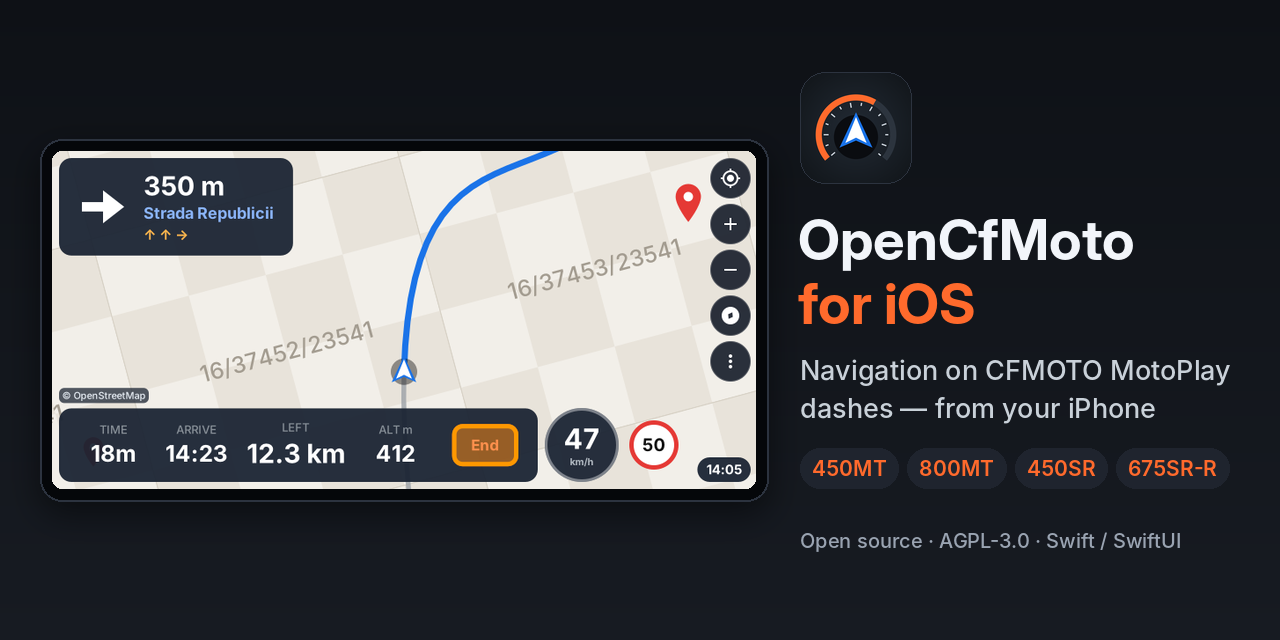
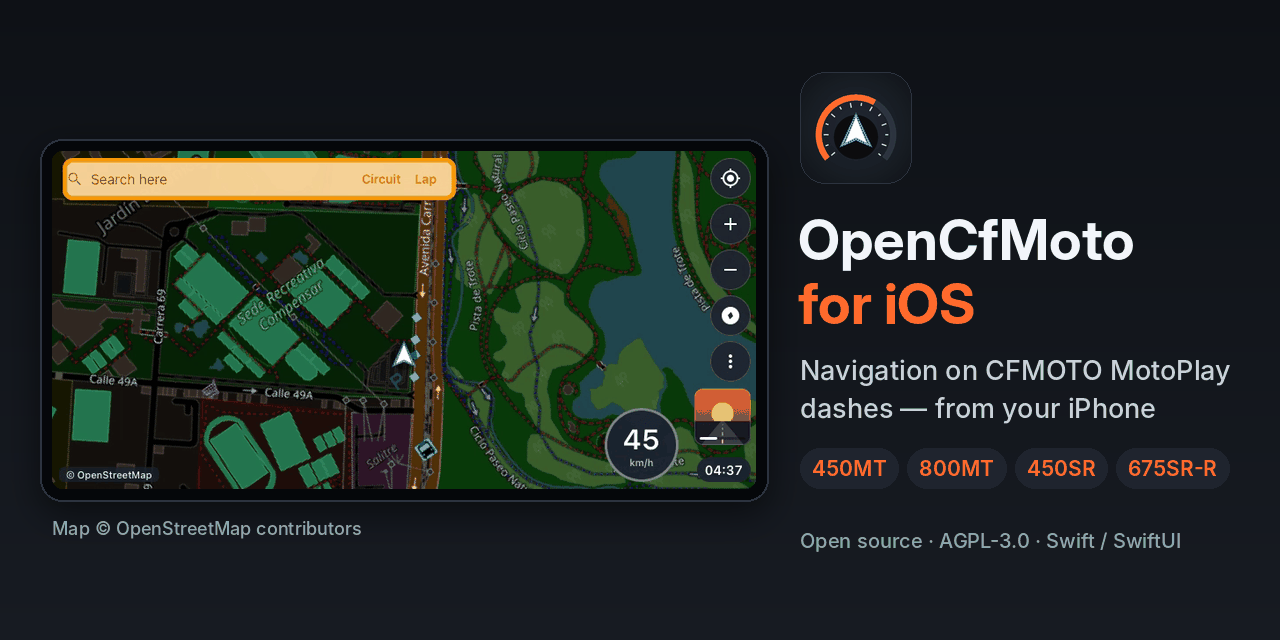
README images and social preview: the real dash map and the demo cover, credited
The README strip and the 1280x640 social preview (the LinkedIn card) showed snapshot-test renders:
placeholder tiles labelled "16/37452/23541" and "14/9362/5885", and the internal artwork id
"music.art.p1f" instead of a cover. A newcomer could not tell what the dash map looks like.

- dash-map.png (the hero and the card): what the app streamed to the simulated dash in the CI E2E
  run, music scenario: the OpenStreetMap night map along the demo route, speed, clock, the dash's own
  "© OpenStreetMap" label and the Apple Music tile with the demo song's cover.
- dash-apple-music.png: the Music sheet frame of the same run (demo song and cover).
- dash-portrait.png replaces the route preview: the last frame of the cfdl26 scenario, the same map
  on the 800x944 portrait dash, downscaled to 624x736. dash-navigation.png and dash-route-preview.png
  are gone; every image is a palette PNG under 300 KB with no metadata chunks.
- The strip's caption says where the pictures come from and "Map © OpenStreetMap contributors"
  (EN/ES); the alt texts describe what is shown.
- make_social_preview.py reads dash-map.png, draws "Map © OpenStreetMap contributors" under the dash
  (checked against the 40 px safe margin) and writes a 256-colour PNG (133 KB, was 154 KB).
- docs/media/README.md: what the card and the README images are, where they come from and the rules;
  spec navigation-dash §10.4 notes that these pictures carry the caption.
[…]

Changed region(s): [[0.0312, 0.2188, 0.5938, 0.7812], [0.0312, 0.8125, 0.2812, 0.8438], [0.6562, 0.1875, 0.6875, 0.25]]

diff --git a/docs/media/make_social_preview.py b/docs/media/make_social_preview.py
@@ -2,13 +2,16 @@
 # SPDX-License-Identifier: AGPL-3.0-or-later
 """Draw docs/media/social-preview.png (1280 x 640), the repository's social preview image.
 
-Layout (docs/media/README.md): the 800 x 384 dash snapshot (demo data, placeholder tiles) in a TFT
-bezel on the left; the app icon, the name, a one-line pitch, model chips and the licence on the
-right. Colours are the app's Theme. Everything important stays 40 px inside the edges, so LinkedIn's
-1.91:1 crop (about 1222 x 640, centred) keeps it.
+Layout (docs/media/README.md): the 800 x 384 dash frame docs/screenshots/readme/dash-map.png (what the
+app streamed to the simulated dash in the CI E2E run: OpenStreetMap tiles along the demo route, the
+demo song's cover) in a TFT bezel on the left, with the map credit "Map © OpenStreetMap contributors"
+under it; the app icon, the name, a one-line pitch, model chips and the licence on the right. Colours
+are the app's Theme. Everything important stays 40 px inside the edges, so LinkedIn's 1.91:1 crop
+(about 1222 x 640, centred) keeps it.
 
 Needs Pillow and the Inter typeface (OFL; Debian/Ubuntu package fonts-inter). Only images from this
-repository are used: no logos, no photos, no real map data.
+repository are used: no logos, no photos; the only map data is the credited OpenStreetMap map of the
+demo route.
 
 usage: python3 docs/media/make_social_preview.py [--fonts DIR] [--out PATH]
 """
@@ -19,7 +22,7 @@ import sys
 from PIL import Image, ImageDraw, ImageFilter, ImageFont
 
 ROOT = os.path.dirname(os.path.dirname(os.path.dirname(os.path.abspath(__file__))))
-DASH = os.path.join(ROOT, "docs", "screenshots", "readme", "dash-navigation.png")
+DASH = os.path.join(ROOT, "docs", "screenshots", "readme", "dash-map.png")
 ICON = os.path.join(ROOT, "App", "Resources", "Assets.xcassets", "AppIcon.appiconset", "AppIcon-1024.png")
 OUT = os.path.join(ROOT, "docs", "media", "social-preview.png")
 
@@ -31,6 +34,7 @@ BRAND, CHIP_FILL = (0xFF, 0x6A, 0x2C), (0x1F, 0x24, 0x2E)
 
 BEZEL = (40, 139, 40 + 728, 139 + 362)  # 728 x 362, vertically centred
 SCREEN = (52, 151, 52 + 704, 151 + 338)  # the dash picture, 704 x 338 (0.88 of 800 x 384)
+MAP_CREDIT = "Map © OpenStreetMap contributors"  # required on any picture with OSM tiles
 COLUMN_X, COLUMN_RIGHT = 800, W - 40
 
 
@@ -63,6 +67,14 @@ def bezel(canvas):
     sx0, sy0, sx1, sy1 = SCREEN
     dash = Image.open(DASH).convert("RGBA").resize((sx1 - sx0, sy1 - sy0), Image.LANCZOS)
     canvas.paste(dash, (sx0, sy0), rounded_mask(dash.size, 10))
+
+
+def map_credit(canvas, fonts):
+    """The OpenStreetMap credit under the bezel, inside the 40 px safe margin."""
+    credit = font(fonts, "Inter-Medium.otf", 18)
+    draw = ImageDraw.Draw(canvas)
+    draw.text((BEZEL[0] + 12, BEZEL[3] + 34), MAP_CREDIT, font=credit, fill=TEXT_DIM, anchor="ls")
+    return draw.textbbox((BEZEL[0] + 12, BEZEL[3] + 34), MAP_CREDIT, font=credit, anchor="ls")
 
 
 def right_column(canvas, fonts):
@@ -114,10 +126,16 @@ def main():
 
     canvas = gradient().convert("RGBA")
     bezel(canvas)
+    credit_box = map_credit(canvas, args.fonts)
+    if credit_box[3] > H - 40 or credit_box[2] > COLUMN_X - 16:
+        sys.exit("the map credit does not fit under the dash (40 px safe margin)")
     content_right = right_column(canvas, args.fonts)
     if content_right > COLUMN_RIGHT:
         sys.exit("the text does not fit the right column (40 px safe margin)")
-    canvas.convert("RGB").save(args.out, "PNG", optimize=True)
+    # A 256-colour palette (median cut, no dithering) keeps the card small: the map frame is a palette
+    # PNG already and the background gradient has only a few colours.
+    card = canvas.convert("RGB").quantize(colors=256, method=Image.Quantize.MEDIANCUT, dither=Image.Dither.NONE)
+    card.save(args.out, "PNG", optimize=True)
     size = os.path.getsize(args.out)
     print(f"{os.path.relpath(args.out, ROOT)}: {W} x {H}, {size // 1024} KB")
     if size >= 1024 * 1024:

diff --git a/docs/media/README.md b/docs/media/README.md
@@ -2,7 +2,7 @@
 
 ## social-preview.png
 
-`social-preview.png` (1280 × 640 PNG, about 150 KB) is the image GitHub, LinkedIn and chat apps show
+`social-preview.png` (1280 × 640 PNG, about 135 KB) is the image GitHub, LinkedIn and chat apps show
 when someone shares a link to this repository.
 
 ### Upload it (repository owner, once)
@@ -21,16 +21,19 @@ before posting.
 
 ### What is in it, and the rules for changing it
 
-- Left: the 800 × 384 dash snapshot `docs/screenshots/readme/dash-navigation.png` (a snapshot-test
-  render with placeholder map tiles and upstream's demo route) in a dash-style bezel.
+- Left: the 800 × 384 dash frame `docs/screenshots/readme/dash-map.png` in a dash-style bezel, with
+  "Map © OpenStreetMap contributors" under it. It is what the app streamed to the simulated dash in
+  the CI E2E run (the `music` scenario: OpenStreetMap tiles along the demo route, the demo song's
+  cover, no tile ids or test labels).
 - Right: the app icon, "OpenCfMoto for iOS", a one-line pitch, the model chips
   450MT · 800MT · 450SR · 675SR-R and "Open source · AGPL-3.0 · Swift / SwiftUI".
 - Colours are the app's own (`App/Sources/UI/Common/Theme.swift`); the type is Inter.
 - Everything important stays 40 px inside the edges, so LinkedIn's 1.91:1 crop keeps it.
-- Keep it that way: no CFMOTO, Carbit or Apple logos, no photos of real bikes or plates, no real
-  map positions and no screenshots of the real app (Garage, Logs, Wi-Fi screens, the dash QR). If you
-  ever switch to a picture with real OpenStreetMap tiles, add the caption
-  "© OpenStreetMap contributors" on the image.
+- Keep it that way: no CFMOTO, Carbit or Apple logos, no photos of real bikes or plates, no map
+  positions other than the demo route (public streets and parks), no snapshot-test placeholders
+  (tile ids, artwork ids) and no screenshots of the real app with personal data (Garage, Logs,
+  Wi-Fi screens, the dash QR). Every picture with OpenStreetMap tiles carries the caption
+  "© OpenStreetMap contributors" on the image (here) or right under it (the README strip).
 - GitHub needs a PNG, JPG or GIF under 1 MB; 1280 × 640 is the recommended size.
 
 ### Regenerate it
@@ -42,6 +45,15 @@ python3 docs/media/make_social_preview.py
 It needs Pillow and the Inter typeface (`fonts-inter` on Debian / Ubuntu; pass another folder with
 `--fonts`). The script reads only images from this repository and refuses to write a file over 1 MB.
 
+## The README images
+
+`docs/screenshots/readme/`: `phone-home.png` and `phone-dash-view.png` are iOS simulator screenshots in
+demo mode. `dash-map.png`, `dash-apple-music.png` and `dash-portrait.png` are frames the app streamed to
+the simulated dash in the CI E2E run (the `music` scenario's map and Music sheet frames, and the last
+frame of the `cfdl26` scenario, downscaled to 624 × 736), copied from the run's evidence and saved as
+palette PNGs under 300 KB. To refresh them, take the same frames from a newer E2E run; never use
+snapshot-test renders with placeholder tiles, and keep the OpenStreetMap caption under the strip.
+
 ---
 
 **Resumen en español.** `social-preview.png` es la imagen que muestran GitHub, LinkedIn y las apps de
@@ -49,7 +61,9 @@ chat al compartir el enlace del repositorio. GitHub no la lee del repositorio: e
 en **Settings** ▸ **General** ▸ **Social preview** ▸ **Edit** ▸ **Upload an image…** (primero
 descárgala con **Download raw file**). Si LinkedIn muestra una tarjeta vieja, pega la URL del
 repositorio en su [Post Inspector](https://www.linkedin.com/post-inspector/) antes de publicar. Solo
-lleva imágenes de demostración del propio repositorio: nada de logotipos de CFMOTO, Carbit o Apple,
-fotos de motos reales, ubicaciones reales ni capturas de la app real (Garaje, Registros, pantallas de
-Wi-Fi o el QR del tablero). Para regenerarla: `python3 docs/media/make_social_preview.py` (con Pillow
-y la fuente Inter).
+lleva imágenes de demostración del propio repositorio: el mapa de OpenStreetMap de la ruta de
+demostración (con el crédito «Map © OpenStreetMap contributors» en la imagen), sin logotipos de CFMOTO,
+Carbit o Apple, fotos de motos reales, otras ubicaciones ni capturas de la app con datos personales
+(Garaje, Registros, pantallas de Wi-Fi o el QR del tablero). Para regenerarla:
+`python3 docs/media/make_social_preview.py` (con Pillow y la fuente Inter). Las imágenes del README son
+fotogramas que la app envió al tablero simulado en la prueba E2E de la CI y capturas del simulador.

diff --git a/README.md b/README.md
@@ -19,14 +19,14 @@ la moto. Una **alternativa a CarPlay para motos**.
 [![Swift 5.9+ · SwiftUI](https://img.shields.io/badge/Swift-5.9%2B%20%C2%B7%20SwiftUI-F05138?logo=swift&logoColor=white)](https://www.swift.org)
 [![iOS port of OpenCfMoto (Android)](https://img.shields.io/badge/iOS%20port%20of-OpenCfMoto%20%28Android%29-2ea44f)](https://github.com/zanderp/open-cfmoto)
 
-<img src="docs/screenshots/readme/dash-navigation.png" width="400" alt="CFMOTO dash navigation from an iPhone: turn card, speed, speed limit and arrival time on an 800×384 MotoPlay dash (demo data)"/>
-<img src="docs/screenshots/readme/dash-apple-music.png" width="400" alt="Apple Music on the motorcycle dash next to the turn card (demo song)"/>
+<img src="docs/screenshots/readme/dash-map.png" width="400" alt="The OpenCfMoto map streamed from an iPhone to an 800×384 CFMOTO MotoPlay dash: OpenStreetMap night map, speed, clock and the Apple Music tile with the demo song's cover (demo route)"/>
+<img src="docs/screenshots/readme/dash-apple-music.png" width="400" alt="The Apple Music sheet on the motorcycle dash: demo song, cover, progress and previous / pause / next buttons (demo song)"/>
 <br/>
 <img src="docs/screenshots/readme/phone-home.png" width="170" alt="OpenCfMoto home screen on the iPhone in demo mode"/>
 <img src="docs/screenshots/readme/phone-dash-view.png" width="170" alt="iPhone Dash view with the Apple Music sheet and the handlebar keypad (demo)"/>
-<img src="docs/screenshots/readme/dash-route-preview.png" width="400" alt="Route preview on the dash with Fast and Fun alternatives (demo data)"/>
+<img src="docs/screenshots/readme/dash-portrait.png" width="312" alt="The same map on the 800×944 portrait dash of a 1000 MT-X, with speed and speed limit (demo route)"/>
 
-<sub>Simulator and dash snapshot-test images, demo data only · Capturas del simulador y de las pruebas del tablero, solo datos de demostración</sub>
+<sub>What the app streamed to a simulated dash in CI, and iOS simulator screenshots; demo data only · Map © OpenStreetMap contributors<br/>Lo que la app envió a un tablero simulado en la CI y capturas del simulador de iOS; solo datos de demostración · Mapa © colaboradores de OpenStreetMap</sub>
 
 ### [Try it](#try-it) · [Pruébala](#pruebala) · [Credits / Créditos](CREDITS.md) · [English](#opencfmoto-for-ios-english) · [Español](#opencfmoto-para-ios)
 

diff --git a/docs/spec/navigation-dash.md b/docs/spec/navigation-dash.md
@@ -989,8 +989,9 @@ doubt it picks the OSMF side.
     from the top chrome down: with one-line texts they stay clear of it in every map state on the supported
     canvases (DashMapAttributionTests); a long two-line toast may cover it while it shows (2.5 s).
 * Pictures of the dash with real OSM tiles (README, social posts) also caption them "Map © OpenStreetMap
-  contributors". The snapshot images in `docs/screenshots/dash/` use placeholder tiles and show the credit
-  where the dash draws it.
+  contributors": the README strip and `docs/media/social-preview.png` use frames from the CI E2E run, with
+  real tiles, and carry that caption. The snapshot images in `docs/screenshots/dash/` use placeholder tiles
+  and show the credit where the dash draws it.
 
 ---
 
